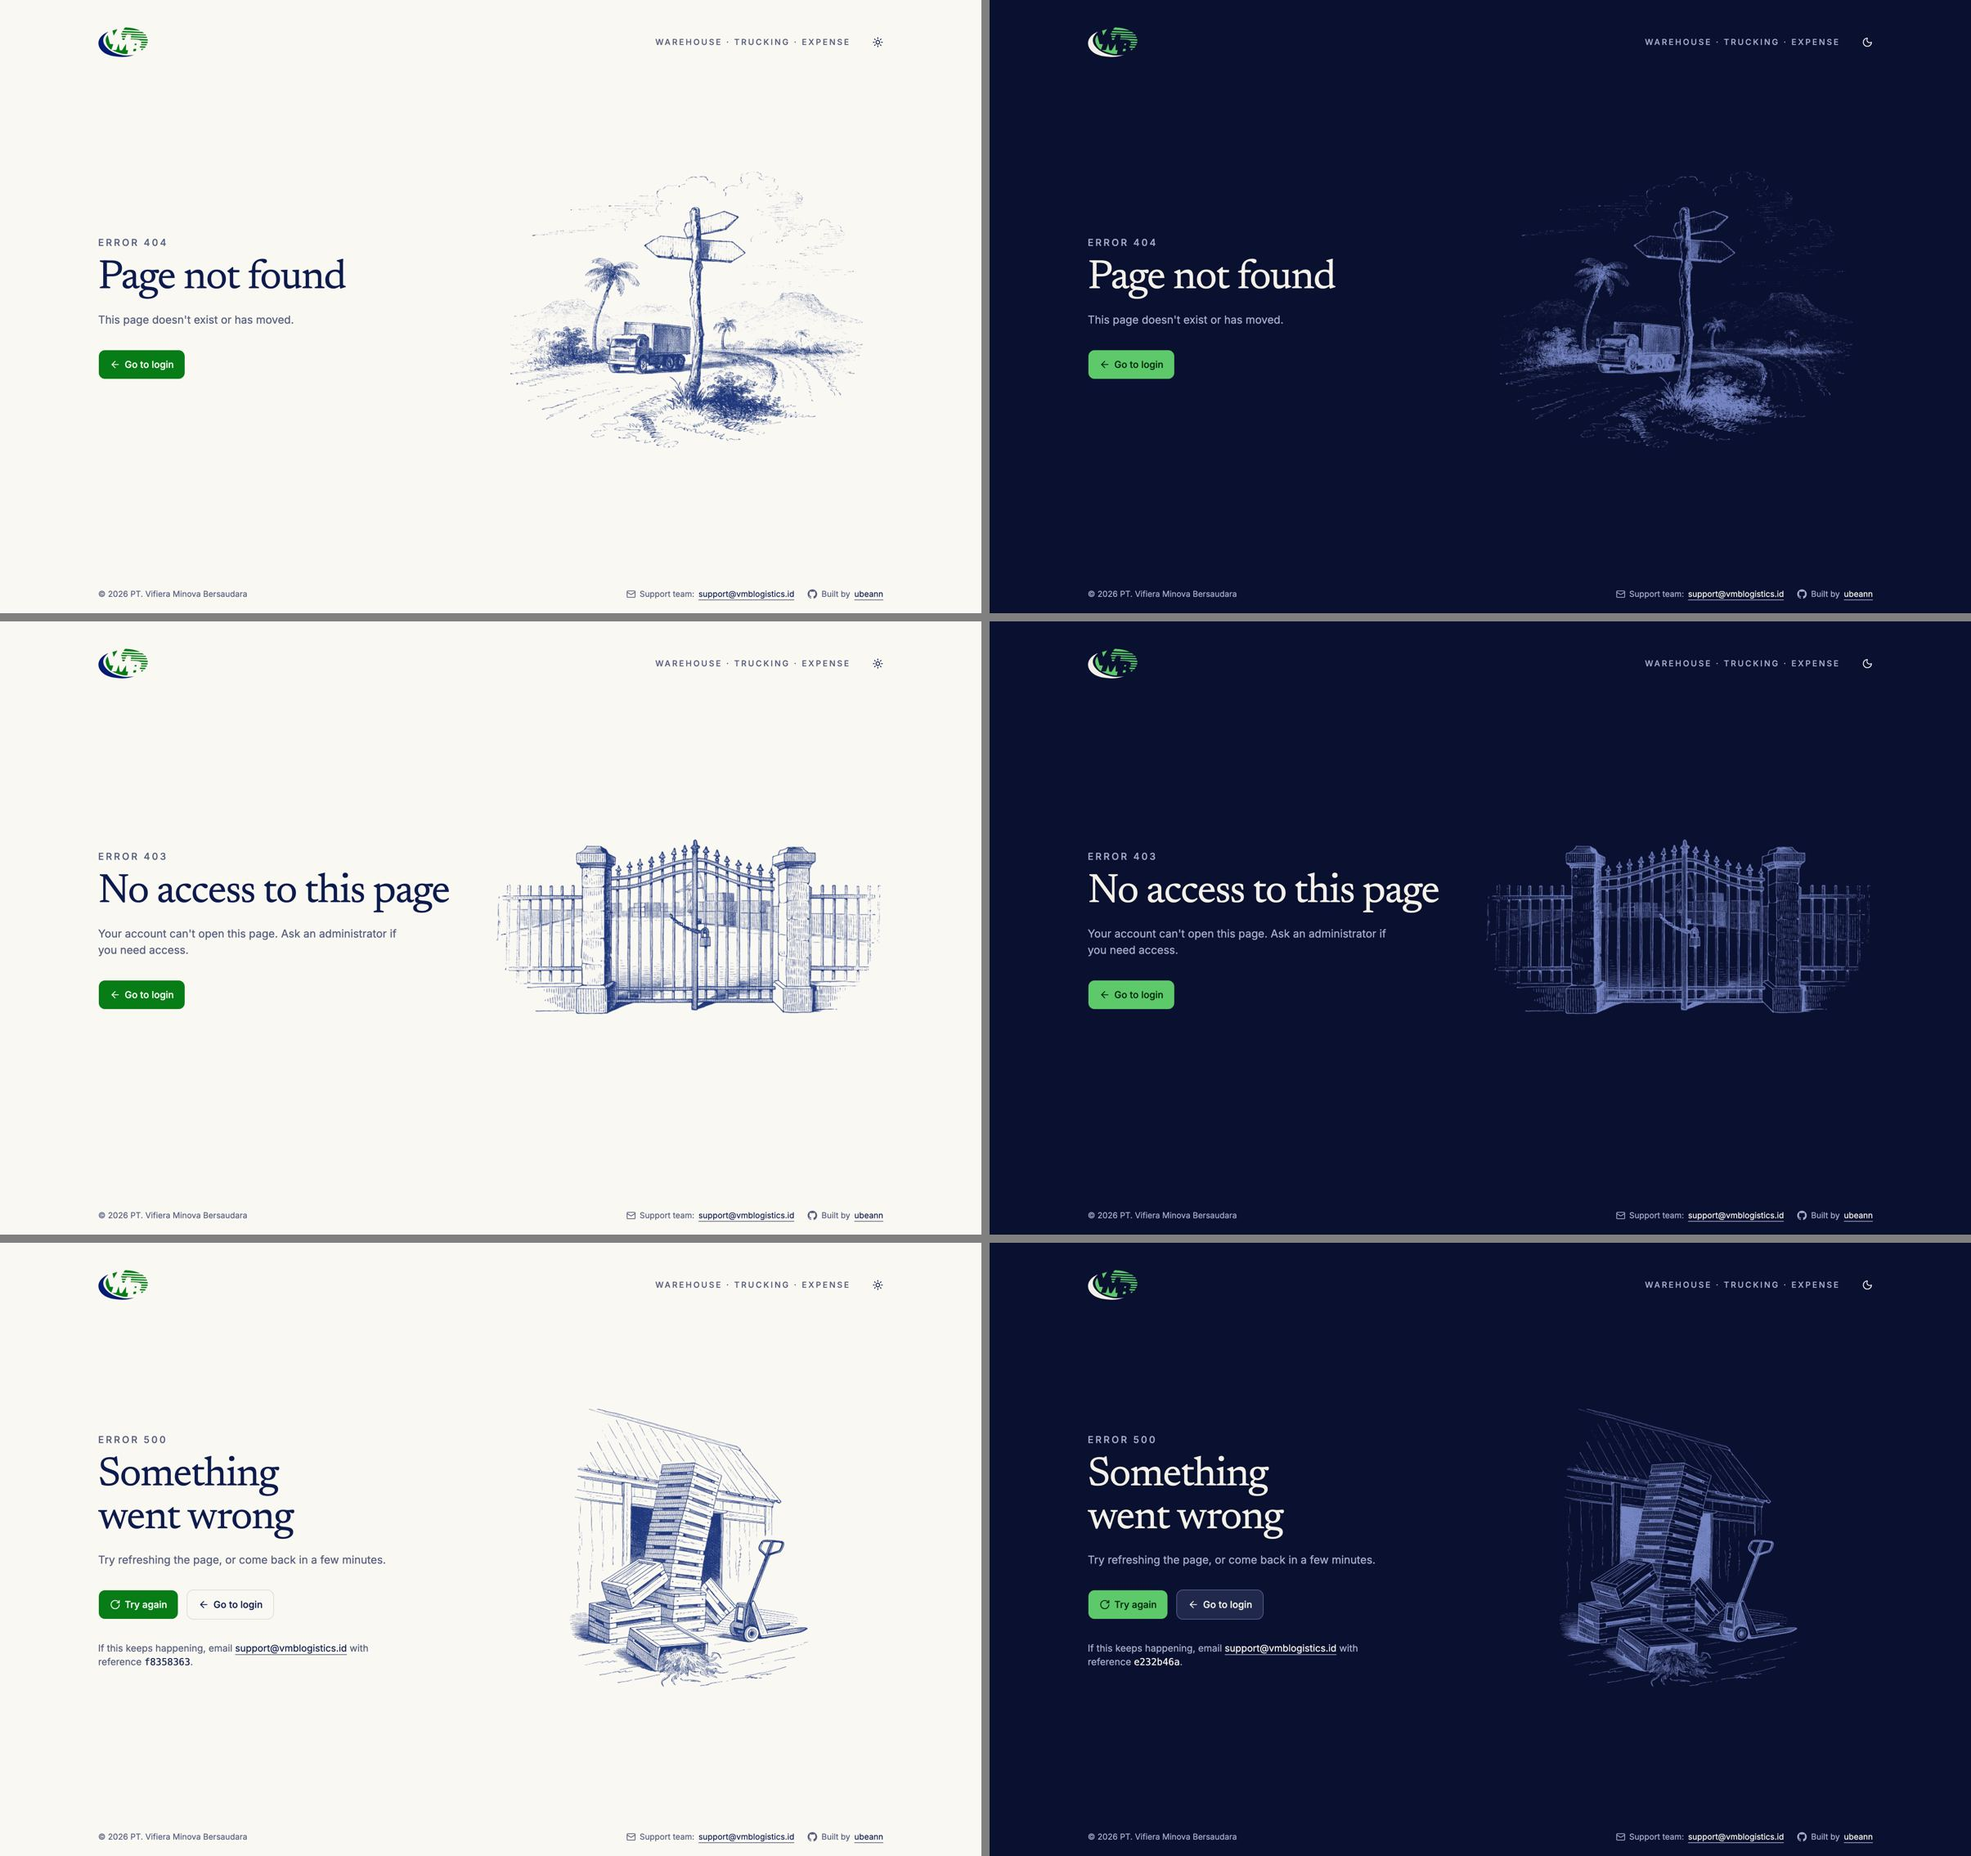
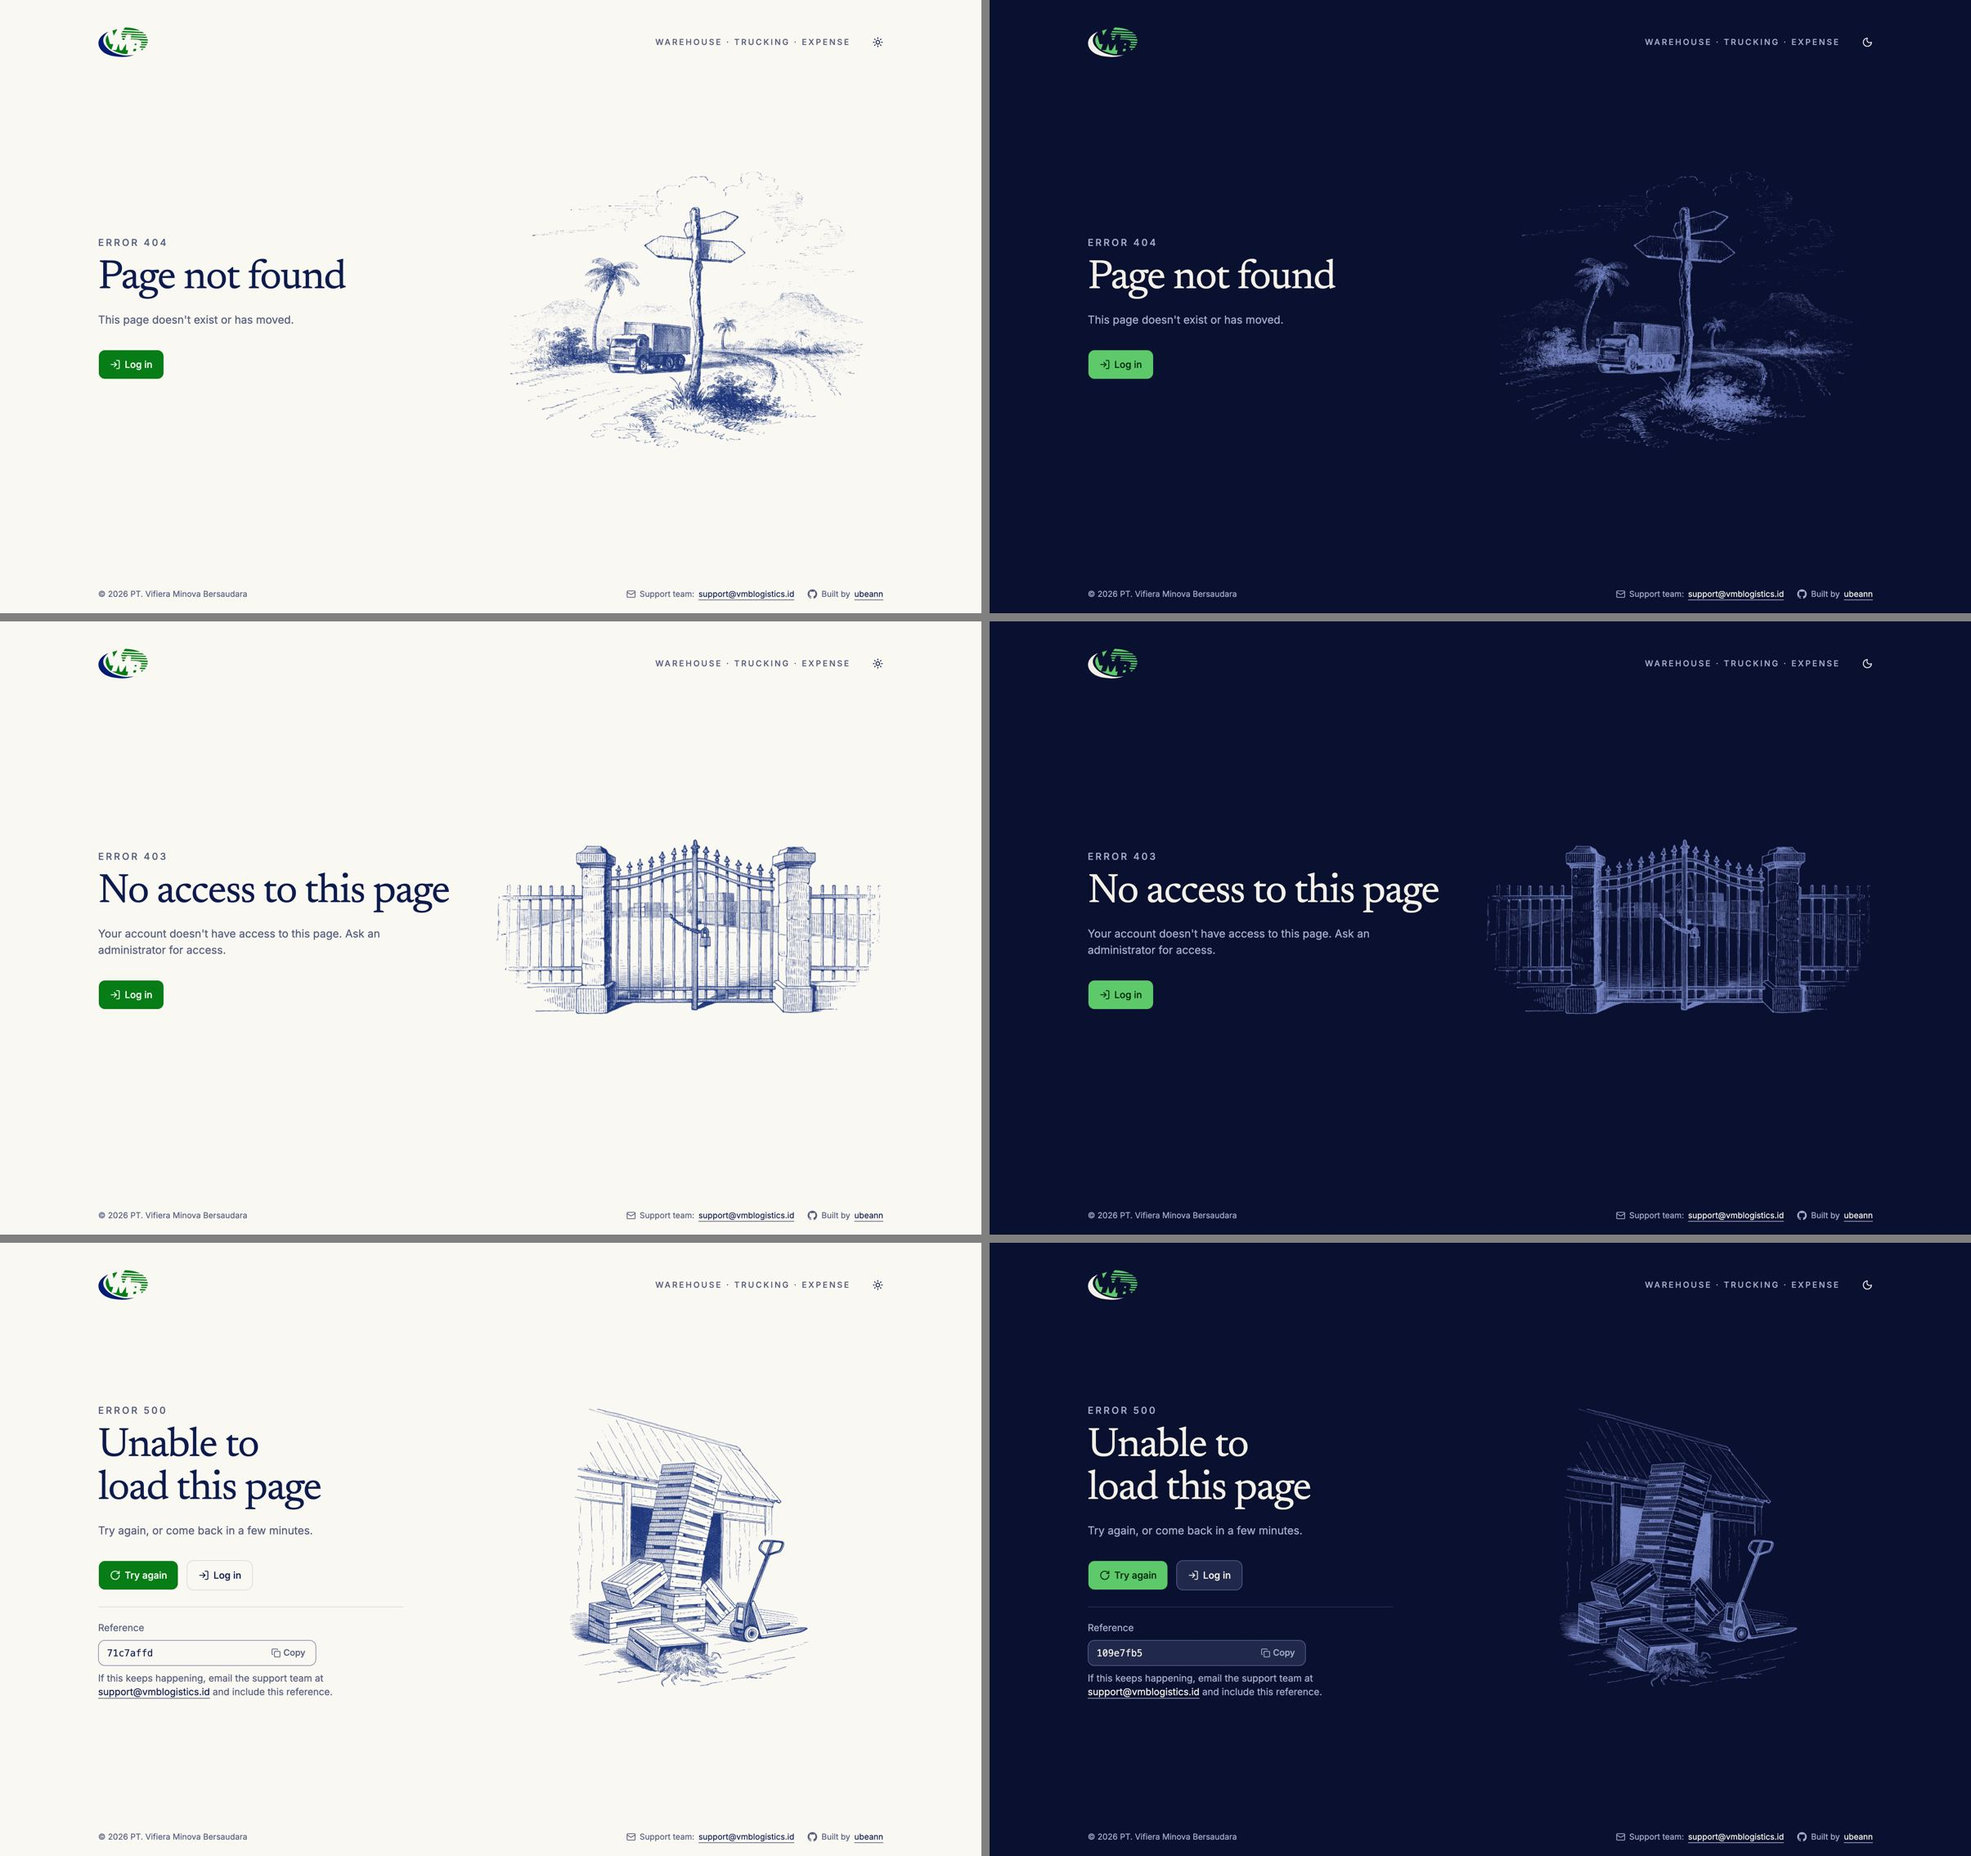
docs: record the error page copy review and the reference field
- error-states README: the session-aware way back, the new copy, and the reference as a copy field with a blocked-clipboard fallback
- review sheets re-shot at 1440 × 900 and 390 × 844 with the new copy and field

diff --git a/docs/design/error-states/README.md b/docs/design/error-states/README.md
@@ -14,7 +14,7 @@ The error page (`apps/web/src/routes/+error.svelte`) redesigned in the etched te
 | Viewport          | Layout                                                                                                                                                                                |
 | ----------------- | ------------------------------------------------------------------------------------------------------------------------------------------------------------------------------------- |
 | Desktop (≥ 64rem) | The signed-out masthead and footer strip (`SiteHeader`, `SiteFooter`, shared with `AuthShell`); the copy on the left, the vignette on the right, 4rem apart, both centred vertically. |
-| Tablet, mobile    | The vignette above the copy (at most 15rem tall, 11rem below 40rem), 2.5rem clear of the eyebrow. The page fits at 390 × 844 without scrolling.                                       |
+| Tablet, mobile    | The vignette above the copy (at most 15rem tall, 10rem below 40rem), 2.5rem clear of the eyebrow. The page fits at 390 × 844 without scrolling.                                       |
 
 The vignette box takes the art's own ratio and is never taller than `--vignette-max-height` (26rem on desktop), so the wide gate and the tall crates take the same room.
 
@@ -22,14 +22,18 @@ The vignette box takes the art's own ratio and is never taller than `--vignette-
 
 The scene follows the status, never chance: the server and the browser draw the same picture, a refresh doesn't swap it, and tests and screenshots stay stable. `errorPageContent(status)` in `apps/web/src/lib/error-page.ts` holds the mapping.
 
-| Status    | Scene          | Heading                | Actions                      |
-| --------- | -------------- | ---------------------- | ---------------------------- |
-| 404, 410  | Road, signpost | Page not found         | Go to login / Back to VMB    |
-| 401, 403  | Locked gate    | No access to this page | Go to login / Back to VMB    |
-| 5xx       | Toppled crates | Something went wrong   | Try again, then the way back |
-| Other 4xx | Toppled crates | Something went wrong   | The way back                 |
+| Status    | Scene          | Heading                  | Actions                      |
+| --------- | -------------- | ------------------------ | ---------------------------- |
+| 404, 410  | Road, signpost | Page not found           | Log in / Go to dashboard     |
+| 401, 403  | Locked gate    | No access to this page   | Log in / Go to dashboard     |
+| 5xx       | Toppled crates | Unable to load this page | Try again, then the way back |
+| Other 4xx | Toppled crates | Unable to load this page | The way back                 |
 
-"Try again" reloads the same URL (`data-sveltekit-reload`). An unexpected server failure also gets a short reference from `handleError` in `hooks.server.ts`: it is logged with the error, and the page asks the visitor to email it to `support@vmblogistics.id` (the link pre-fills the subject). A 404 gets no reference and no log line.
+The way back depends on the session: "Log in" (to `/login`) when signed out, "Go to dashboard" (to `/`) when signed in, read from `page.data.user`, which the root layout returns on every route. No value is passed in the URL. The labels follow the app's own terms ("Log in", not "login") and name the destination rather than "Back", which reads as the browser's Back button.
+
+"Try again" reloads the same URL (`data-sveltekit-reload`), and the 5xx body names that button ("Try again, or come back in a few minutes.") so the page uses one word for one action. The heading says what failed ("Unable to load this page") instead of "Something went wrong".
+
+An unexpected server failure also gets a short reference and its time from `handleError` in `hooks.server.ts`, both logged with the error. The page shows the reference as a read-only copy field, after the pattern of cloud consoles' account-ID fields: a "Reference" label, then a narrow bordered box (`--input` border, as the login fields) with the value in mono and a "Copy" button inside it. The button's accessible name is "Copy reference" (WCAG 2.5.3: it contains the visible word), since "Copy" alone says nothing in a screen reader's list of buttons. On success it reads "Copied" for 2 s with the animated check (ADR-0035 rule 3: motion for a confirmed copy), and a live region announces "Reference copied". When the clipboard is refused (a denied permission, a non-HTTPS page) the value is selected and the page says "Press ⌘C to copy the reference." (Ctrl+C off Apple devices), so there is always a next step. The button renders with the page, so nothing shifts on hydration. The value is not masked or blurred: a reference is not a secret. Below it: "If this keeps happening, email the support team at support@vmblogistics.id and include this reference." The link pre-fills the subject (`VMB error <reference>`) and a body with the reference, the page and the time in UTC, so support can find the log line without asking; the time comes from the server, so the server and the browser render the same link. A 404 gets no reference and no log line.
 
 ## Storyboard
 
@@ -72,6 +76,7 @@ The script writes 2400px and 1200px files, which upscale these ~840px masks, so 
 - Clear zone: the art never sits under text; the gap is 4rem on desktop and 2.5rem stacked. The text colours are the existing tokens, measured in the login round (`--muted-foreground` 5.99:1 light, 8.45:1 dark).
 - `AuthShell` after the header and footer moved into `SiteHeader` and `SiteFooter`: `/login` is pixel-identical to before at 1440 × 900, 1024 × 923 and 390 × 844 (reduced motion).
 - `pnpm typecheck`, `pnpm lint` and `pnpm test` in `apps/web`.
+- After the copy review (`interfaces:better-writing`) and the copy field: the 500 page at 1440 × 900 (light, and dark after a real copy in Chromium, which put the reference on the clipboard) and 390 × 844 (light), looked at by eye. It measures 844, 768, 923 and 900px tall at 390 × 844, 1366 × 768, 1024 × 923 and 1440 × 900, so it still fits; the field's extra row was paid for on mobile with a 10rem vignette and 2rem page padding. The signed-in "Go to dashboard" button and the blocked-clipboard hint are covered by component tests only.
 
 ## Not yet checked
 
